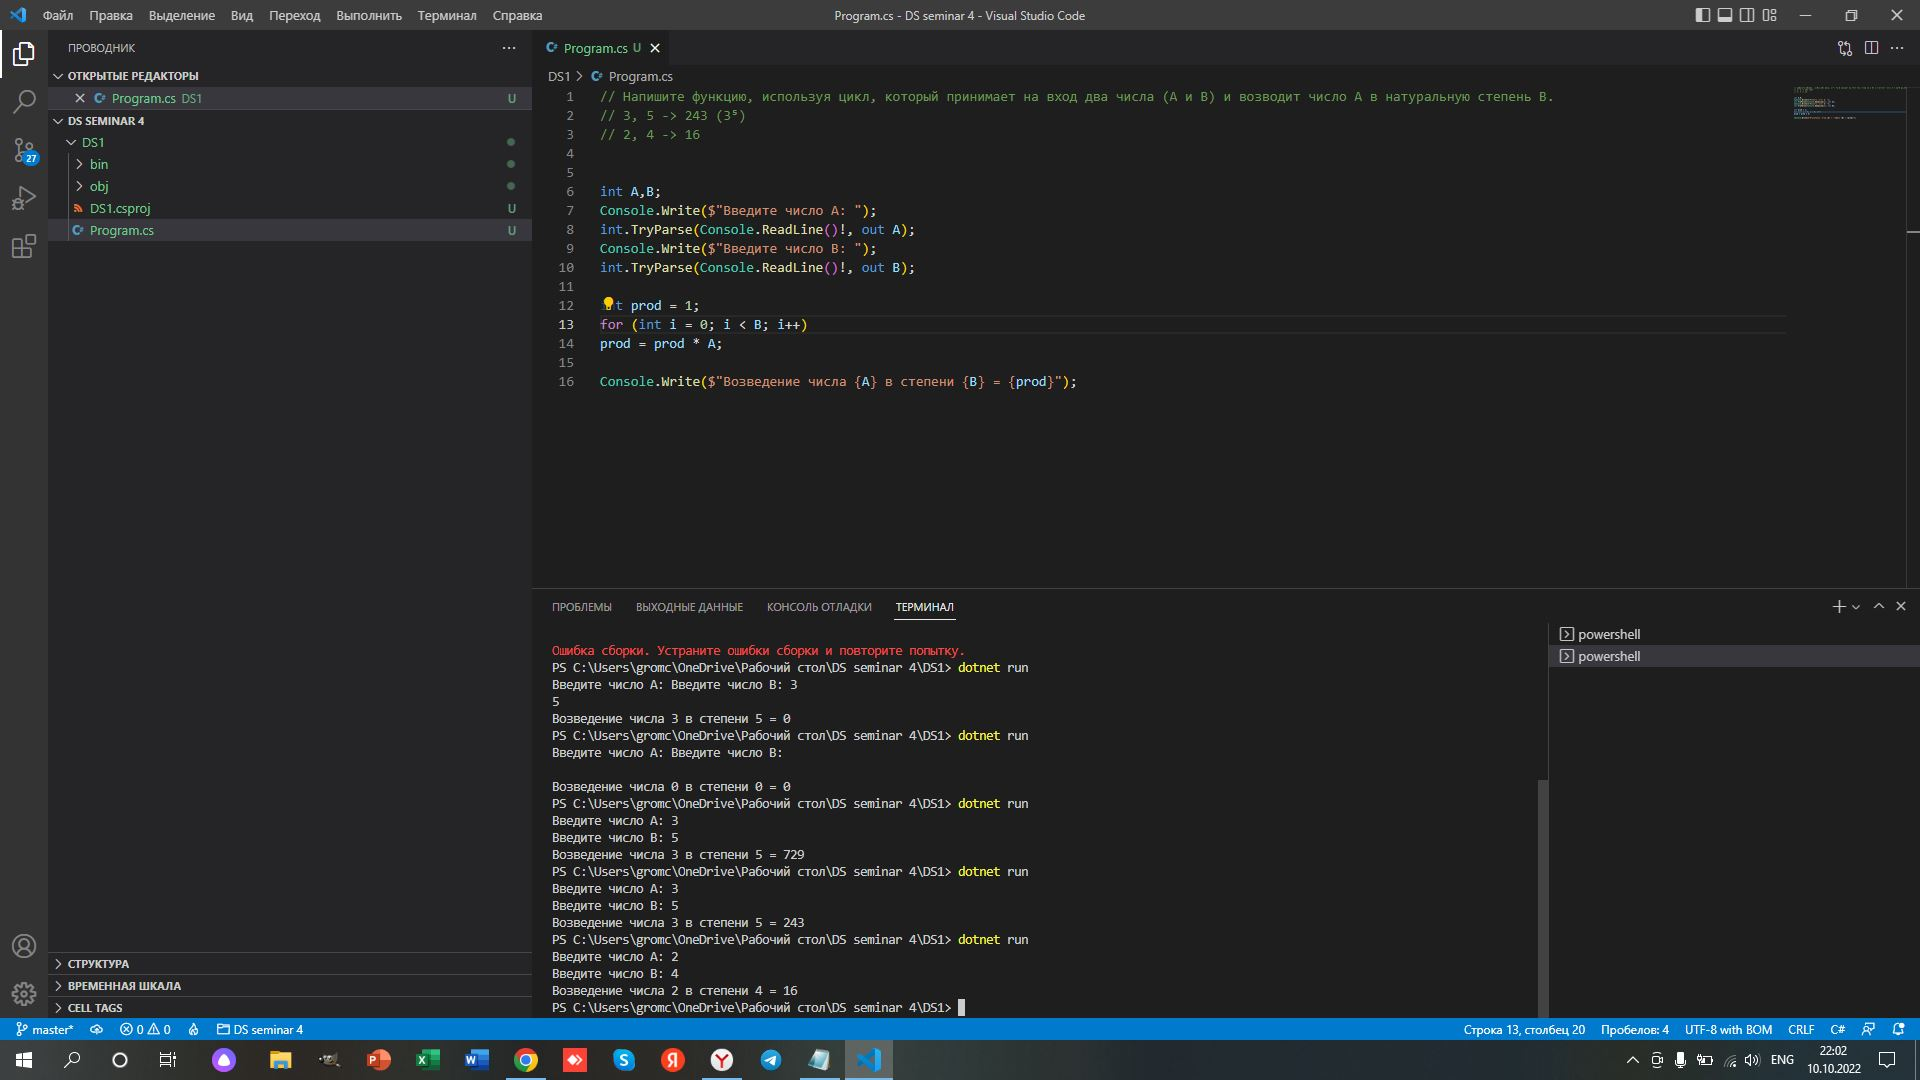
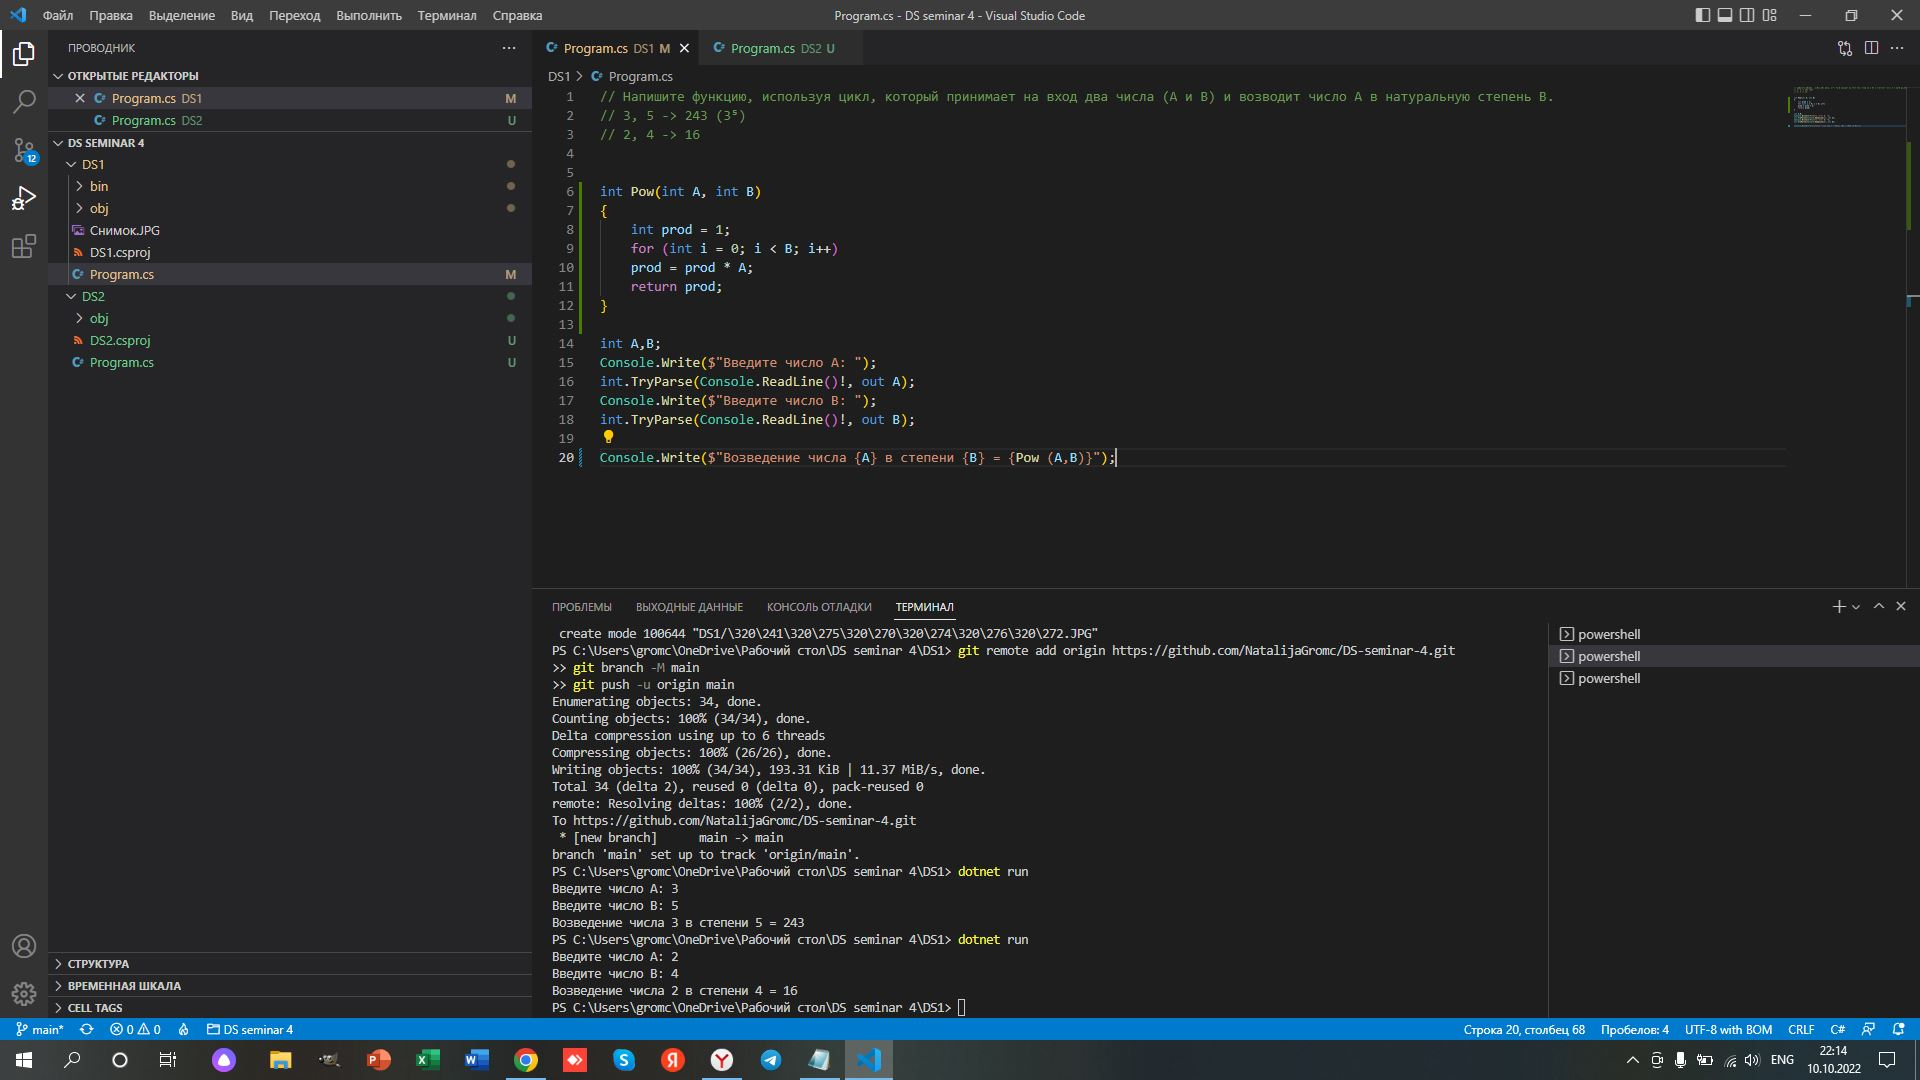
дз1

diff --git a/DS1/Program.cs b/DS1/Program.cs
@@ -3,14 +3,18 @@
 // 2, 4 -> 16
 
 
+int Pow(int A, int B)
+{
+    int prod = 1;
+    for (int i = 0; i < B; i++)
+    prod = prod * A;
+    return prod;
+}
+
 int A,B;
 Console.Write($"Введите число A: ");
 int.TryParse(Console.ReadLine()!, out A);
 Console.Write($"Введите число B: ");
 int.TryParse(Console.ReadLine()!, out B);
 
-int prod = 1;
-for (int i = 0; i < B; i++)
-prod = prod * A;
-
-Console.Write($"Возведение числа {A} в степени {B} = {prod}");
+Console.Write($"Возведение числа {A} в степени {B} = {Pow (A,B)}");
